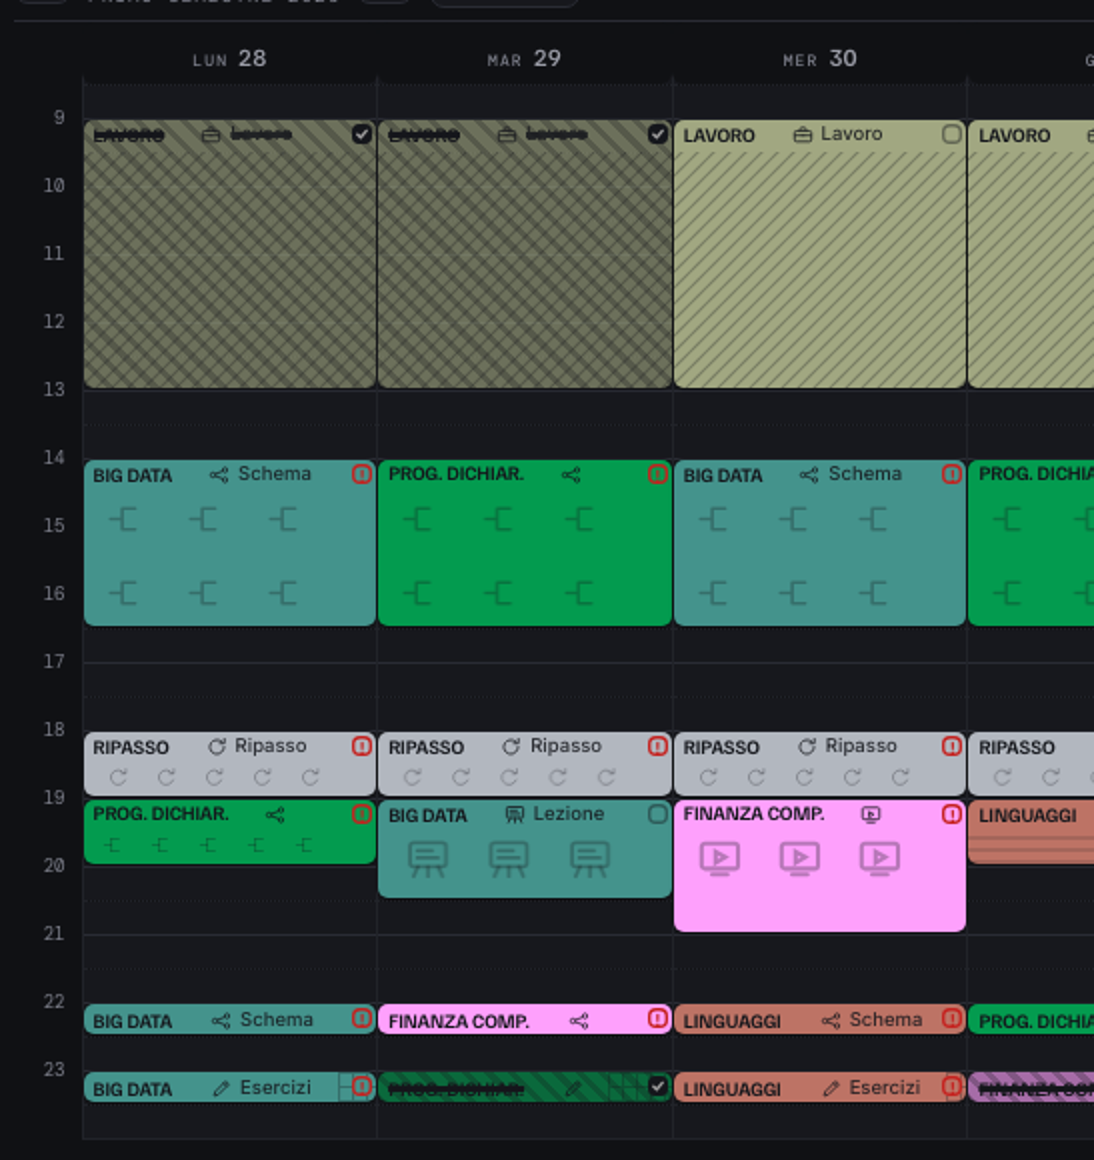
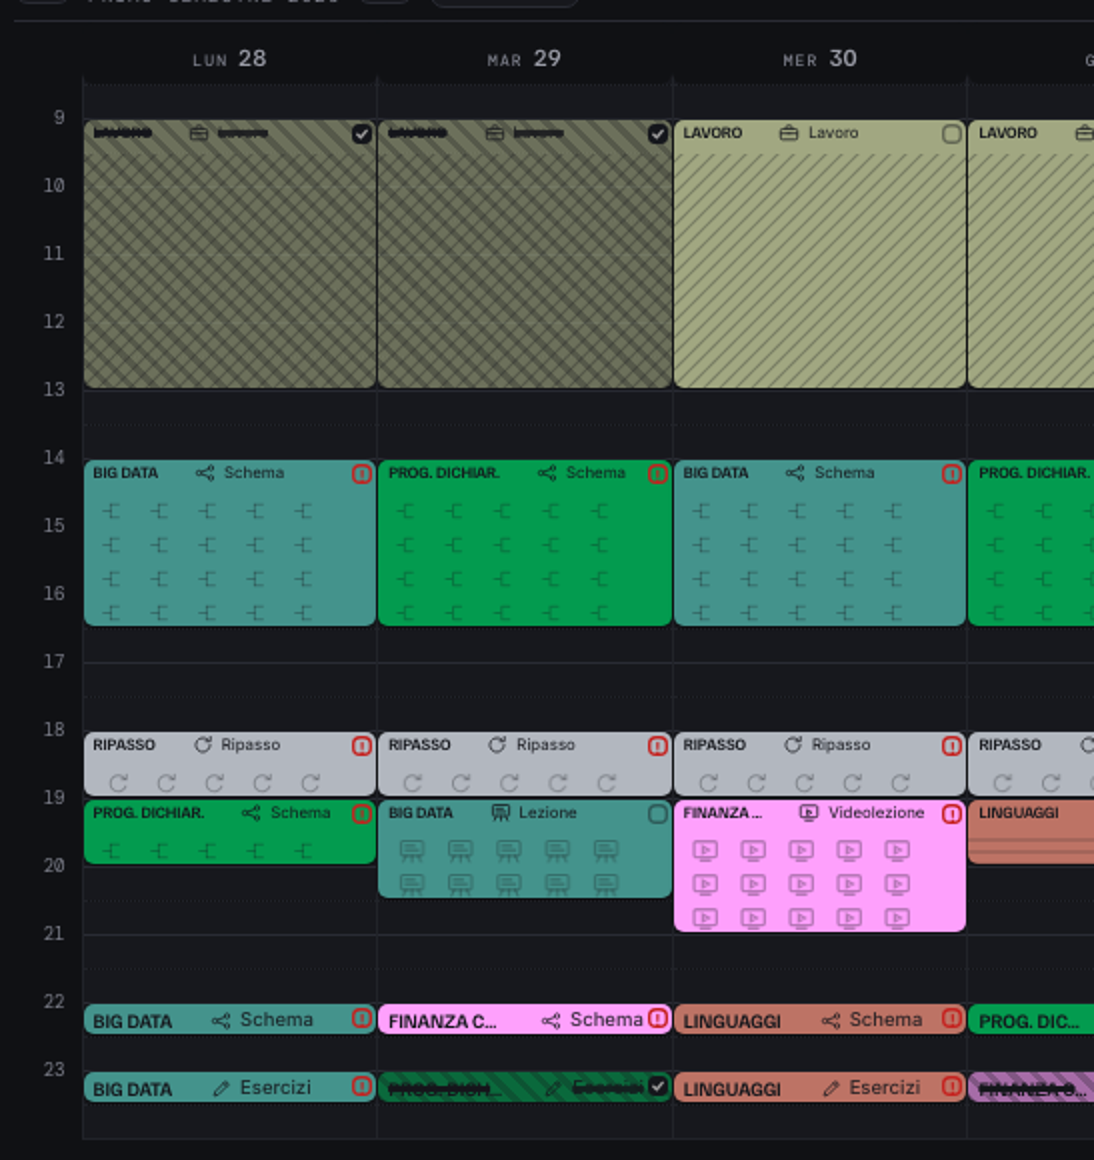
Titolo con nome, icona e attivita' sempre; una fila di figure per mezz'ora
Come chiesto il 4 ottobre: la prima mezz'ora di ogni blocco e' il titolo
— NOME in grassetto, icona dell'attivita', nome dell'attivita' — e ogni
mezz'ora dopo ha una fila di figure, tutte della stessa misura e dello
stesso numero in tutti i blocchi della griglia. La mezz'ora da sola ha
solo il titolo. Se il titolo non ci sta, prima si rimpicciolisce un poco
(uguale per tutta la griglia), poi si accorcia il nome coi puntini:
l'attivita' resta sempre intera.

diff --git a/index.html b/index.html
@@ -573,7 +573,7 @@ tbody tr:last-child td.c{border-bottom:1px solid var(--line-soft)}
    figura dell'angolo spuntava a pezzi intorno al quadratino (3 ottobre: "piccole
    sbavature ad inizio slot in alto a destra"). La stessa misura per tutte le
    file, cosi' restano uguali. */
-.blk em span.tr.tutto{position:absolute;top:0;bottom:3px;left:6px;right:22px;margin:0;flex:none;z-index:-1;min-width:0}
+.blk em span.tr.tutto{position:absolute;top:0;bottom:0;left:6px;right:22px;margin:0;flex:none;z-index:-1;min-width:0}
 .blk em span.tr.tutto.tessuto{left:0;right:0;bottom:0}
 .blk.mini em span.tr.tutto{bottom:0}
 
@@ -595,7 +595,7 @@ tbody tr:last-child td.c{border-bottom:1px solid var(--line-soft)}
 .blk.mini em > b{font-size:calc(var(--tb,12px) * var(--tk,1))}
 html[data-row="tight"] .blk{--tb:11px;--ts:10.5px}
 html[data-row="micro"] .blk{--tb:10px;--ts:9.5px}
-.blk em .l1.l1 s{flex:0 0 auto;min-width:0;max-width:100%;overflow:hidden}
+.blk em .l1.l1 s{flex:0 0 auto;min-width:0;overflow:visible}
 .blk em .l1.l1 s i{white-space:nowrap;overflow:hidden;text-overflow:ellipsis;min-width:0}
 /* Nome e attività sulla stessa riga se ci stanno; se no l'attività va a capo
    da sola, invece di troncarle tutt'e due come faceva la riga forzata. */
@@ -635,7 +635,7 @@ html[data-row="micro"] .blk em u.nota{font-size:10px;line-height:1.15;margin-top
    centoquarantotto pixel gli restavano dieci, cioè niente. Meglio un nome
    troncato e un'attività riconoscibile che il contrario. */
 .blk.mini em b{padding-right:0;flex:0 1 auto;max-width:56%}
-.blk.mini em s{margin-top:0;flex:0 0 auto;min-width:0;overflow:hidden}
+.blk.mini em s{margin-top:0;flex:0 0 auto;min-width:0;overflow:visible}
 .blk.mini em s i{white-space:nowrap;min-width:0}
 .blk.mini em.mini-ok b, .blk.mini em b{flex:0 1 auto;max-width:none;min-width:0}
 
@@ -1874,7 +1874,7 @@ const SWATCHES=["#6E8BFF","#8FA4E8","#5FA8D3","#4A8FBE","#63C2C2","#4EA5A5",
    scritta nel pannello Backup: quando "mi fa ancora lo stesso" la prima
    domanda e' se il browser sta mostrando il file nuovo o uno vecchio in
    memoria — e senza questo nessuno dei due puo' rispondere. */
-const VERSIONE="4 ott 2026 · b";
+const VERSIONE="4 ott 2026 · c";
 const KEY="piano-6272-v5";
 let state={v:8,theme:"dark",piano:"LM18",year:1,ctx:"1",from:0,to:6,span:7,dayStart:0,act:"LEZ",brush:null,erase:false,
            exams:[],over:{},q:"",collapsed:{},dayClip:null,semOpen:false,blockClip:null,
@@ -5320,82 +5320,56 @@ function motivi(root){
      restava niente. Se non ci sta, le scritte si rimpiccioliscono un poco,
      fino a tre quarti; se ancora non basta va via la parola, poi l'icona. Il
      nome della materia resta sempre. */
-  /* Una misura sola per tutti i titoli della griglia, la piu' grande con cui
-     ci stanno quasi tutti: titoli di misure diverse uno accanto all'altro
-     sembravano un errore. */
+  /* Il titolo ha sempre tutti e tre: NOME in grassetto, icona, attivita'
+     (4 ottobre). Una misura sola per tutta la griglia, la piu' grande con
+     cui ci stanno; se a 94% ancora non ci stanno, si accorcia il nome coi
+     puntini — il colore dice gia' la materia — e l'attivita' resta intera. */
   const titoli=[...(root||document).querySelectorAll(".blk em .l1, .blk.mini em")].map(t=>{
     const b=t.querySelector(":scope > b");if(!b)return null;
     const ss=t.querySelector(":scope > s");
-    const stretto=()=>b.scrollWidth>b.clientWidth||
-      (ss&&ss.isConnected&&([...ss.querySelectorAll("i")].some(i=>i.scrollWidth>i.clientWidth)||ss.scrollWidth>ss.clientWidth));
+    const stretto=()=>t.scrollWidth>t.clientWidth+0.5||b.scrollWidth>b.clientWidth||
+      (ss&&[...ss.querySelectorAll("i")].some(i=>i.scrollWidth>i.clientWidth));
     return {t,b,ss,stretto};
   }).filter(Boolean);
-  const scala=[1,.92,.85];
   let K=1;
   titoli.forEach(x=>{
-    for(const k of scala){x.t.style.setProperty("--tk",k);if(!x.stretto()){K=Math.min(K,k);break;}}
+    for(const k of [1,.94]){x.t.style.setProperty("--tk",k);K=Math.min(K,k);if(!x.stretto())break;}
   });
-  titoli.forEach(x=>{
-    x.t.style.setProperty("--tk",K);
-    if(!x.stretto()||!x.ss||x.ss.classList.contains("soloico"))return;
-    const i=x.ss.querySelector("i");if(i)i.remove();
-    if(x.stretto())x.ss.remove();
-  });
+  titoli.forEach(x=>x.t.style.setProperty("--tk",K));
   bl.forEach(o=>{if(o.f){o.f.classList.add("tutto");o.f.style.flex="";o.f.style.marginTop="";o.f.style.top="";o.f.style.left="";o.f.style.backgroundImage="";}});
-  /* 4 ottobre, seconda volta: dietro alle scritte le figure facevano "un
-     casino", e legate all'altezza della mezz'ora su una finestra bassa
-     restavano piccole. Ora le figure hanno una misura loro, grande, uguale in
-     tutta la griglia, e stanno dove le scritte non ci sono: sotto il titolo
-     nei blocchi lunghi, a destra del titolo nelle mezz'ore. Riempiono lo
-     spazio come la trama del lavoro, a file e colonne regolari. */
-  const colW=Math.min(...bl.map(o=>o.f?o.f.getBoundingClientRect().width:999).filter(x=>x>40),999);
-  const FG=figGrande(colW);
+  /* 4 ottobre, terza volta, come l'hai chiesto: la prima mezz'ora di ogni
+     blocco e' il titolo — NOME, icona, attivita' — e ogni mezz'ora dopo ha
+     una fila di figure, tutte uguali: stessa misura, stesso numero, in tutti i
+     blocchi della griglia. La mezz'ora da sola ha solo il titolo. Le figure
+     sono grandi quanto la mezz'ora permette. */
+  let K0=1;
+  bl.forEach(o=>{
+    if(!o.f||o.b.classList.contains("mini"))return;
+    const t0=o.b.getBoundingClientRect().top;
+    K0=Math.max(K0,Math.ceil((fondoTitolo(o.f.parentNode,t0)-2)/ROW));
+  });
   bl.forEach(o=>{
     const r=o.b.getBoundingClientRect(),w=r.width,h=r.height;
     const [tw,th,figura]=o.d,a=o.b.dataset.att;
     if(!(w>3&&h>3)){ripiego(o);return;}
-    if(!o.f){o.b.style.setProperty("--tr","none");return;}      /* mezz'ora con la nota */
-    const fr=o.f.getBoundingClientRect();
-    const mini=o.b.classList.contains("mini");
+    if(!o.f){o.b.style.setProperty("--tr","none");return;}
+    if(o.b.classList.contains("mini")){
+      o.f.style.backgroundImage="none";o.b.style.setProperty("--trr","no-repeat");return;}
     o.f.classList.toggle("tessuto",!figura);
-    if(mini){
-      /* a destra delle scritte, alte quanto la striscia lascia */
-      const em=o.f.parentNode;let fine=fr.left;
-      em.querySelectorAll(":scope > b, :scope > s").forEach(e=>{const q=e.getBoundingClientRect();if(q.width)fine=Math.max(fine,q.right);});
-      const x0=Math.ceil(fine-fr.left+6);
-      o.f.style.left=(x0+6)+"px";o.f.style.top="0px";
-      const lib=fr.width-x0;
-      if(!figura){
-        if(lib<12){o.f.style.backgroundImage="none";return;}
-        o.b.style.setProperty("--trs",tw+"px "+th+"px");
-        o.b.style.setProperty("--trr","repeat");o.b.style.setProperty("--trp","0 0");return;
-      }
-      const F=Math.min(FG,Math.floor(h)-3),FW=F*tw/th,cw=Math.ceil(FW*1.35);
-      if(F<9||lib<FW+2){o.f.style.backgroundImage="none";o.b.style.setProperty("--trr","no-repeat");return;}
-      o.b.dataset.fig=F;
-      o.b.style.setProperty("--tr",cella(a,cw,Math.floor(h),F));
-      o.b.style.setProperty("--trs",cw+"px "+Math.floor(h)+"px");
-      o.b.style.setProperty("--trr",lib>=cw*2?"space no-repeat":"no-repeat");
-      o.b.style.setProperty("--trp","0 50%");
-      return;
-    }
-    /* sotto il titolo */
-    const top0=r.top,y0=Math.ceil(fondoTitolo(o.f.parentNode,top0)+3);
-    o.f.style.left="";o.f.style.top=y0+"px";
-    const hb=h-y0-3;                 /* la fascia si ferma tre pixel sopra il fondo */
+    o.f.style.left="";o.f.style.top=(K0*ROW)+"px";
+    const fr=o.f.getBoundingClientRect(),hb=fr.height;
+    if(hb<ROW-4){o.f.style.backgroundImage="none";o.b.style.setProperty("--trr","no-repeat");return;}
     if(!figura){
-      if(hb<4){o.f.style.backgroundImage="none";return;}
       o.b.style.setProperty("--trs",tw+"px "+th+"px");
       o.b.style.setProperty("--trr","repeat");o.b.style.setProperty("--trp","0 0");return;
     }
-    /* sotto il titolo di un blocco da un'ora resta poco: li' una fila sola,
-       un po' piu' piccola, ma mai sotto i nove pixel */
-    const F=hb>=FG+1?FG:Math.floor(hb-1),FW=F*tw/th,CW=Math.round(cellaG(FG)*F/FG),CH=hb>=FG+1?F+6:Math.floor(hb);
-    if(F<9||fr.width<FW+2){o.f.style.backgroundImage="none";o.b.style.setProperty("--trr","no-repeat");return;}
+    const {F,FW}=figMisura(o.d);
+    if(fr.width<FW+2){ripiego(o);return;}
+    const CW=Math.min(Math.floor(fr.width),cellaW());
     o.b.dataset.fig=F;
-    o.b.style.setProperty("--tr",cella(a,Math.min(CW,Math.floor(fr.width)),CH,F));
-    o.b.style.setProperty("--trs",Math.min(CW,Math.floor(fr.width))+"px "+CH+"px");
-    o.b.style.setProperty("--trr",hb>=CH*2?"space space":"space no-repeat");
+    o.b.style.setProperty("--tr",cella(a,CW,ROW));
+    o.b.style.setProperty("--trs",CW+"px "+ROW+"px");
+    o.b.style.setProperty("--trr","space repeat");
     o.b.style.setProperty("--trp","0 0");
   });
 }
@@ -5430,7 +5404,7 @@ function fondoTitolo(em,top0){
 function figMisura(d){
   /* e mai piu' alta della mezz'ora meno quattro pixel: la striscia da
      mezz'ora e' alta la mezz'ora meno due, e la figura ci deve stare intera */
-  const F=Math.max(9,Math.min(26,ROW-3));
+  const F=Math.max(9,Math.min(26,ROW-4));
   return {F:F,FW:F*d[0]/d[1]};
 }
 /* La casella e' la stessa per tutte le attivita': larga poco piu' della

diff --git a/test/suite.js b/test/suite.js
@@ -1576,8 +1576,9 @@
     var lunghe=Object.keys(file);
     for(var i=0;i<lunghe.length;i++)if(Object.keys(file[lunghe[i]]).length!==1)guai.push(lunghe[i]+" mezz'ore: "+Object.keys(file[lunghe[i]]).join(" o ")+" file");
     if(guai.length)return guai.join(" · ");
-    /* piu' mezz'ore, piu' file */
-    return (file[8]&&file[3]&&+Object.keys(file[8])[0]>+Object.keys(file[3])[0])?true:
+    /* una fila per ogni mezz'ora dopo quella del titolo: cinque mezz'ore in
+       piu', cinque file in piu' */
+    return (file[8]&&file[3]&&+Object.keys(file[8])[0]-+Object.keys(file[3])[0]===5)?true:
       "le file non sono una per mezz'ora: "+JSON.stringify(file);});
   /* 3 ottobre: "se salto la pausa deve essere considerata come tempo fatto" */
   t("saltare la pausa conta la pausa intera, nel registro e nelle mezz'ore",function(){
@@ -1597,6 +1598,22 @@
       if(dopo-prima!==15)return "la pausa saltata ha messo a registro "+(dopo-prima)+" minuti (attesi 15)";
       return q==="■■□□"?true:"dopo 45 + 15 minuti il blocco e' "+q+" (atteso ■■□□)";
     });});
+  /* 4 ottobre: "NOME IN GRASSETTO + motivo (l'icona) + nome attivita'", in
+     ogni blocco, anche da una mezz'ora */
+  t("ogni titolo ha nome, icona e attivita'",function(){
+    pulisci();apri();
+    var lungo=items().filter(function(x){return /dichiar/i.test(x.name||"");})[0]||it[2];
+    state.span=7;state.from=0;state.to=6;applySpan();
+    var G7=[];document.querySelectorAll("td.c").forEach(function(x){if(G7.indexOf(x.dataset.date)<0)G7.push(x.dataset.date);});
+    G7.slice(0,5).forEach(function(d,k){
+      placeRun(d,HOURS[2],{i:lungo.id,a:"VID",len:1+k%3},0);
+      placeRun(d,HOURS[10],{i:it[0].id,a:"SCH",len:1},0);});
+    render();
+    var male=[].filter.call(document.querySelectorAll(".blk[data-att]"),function(b){
+      var nb=b.querySelector("em b"),ic=b.querySelector("em s .ico"),pa=b.querySelector("em s i");
+      return !(nb&&ic&&pa&&pa.textContent.trim()&&pa.scrollWidth<=pa.clientWidth);});
+    return male.length?male.length+" titoli senza nome, icona o attivita' intera: "+
+      [].map.call(male,function(b){return b.textContent.trim();}).slice(0,3).join(" | "):true;});
   t("il lavoro e la NASPI non contano nei grafici",function(){
     pulisci();apri();
     var ieri=iso(addDays(new Date(),-1));
@@ -1847,13 +1864,11 @@
     var b=l1.querySelector("b");
     var bl=l1.closest(".blk").getBoundingClientRect(),r=l1.getBoundingClientRect();
     if(r.bottom>bl.bottom+1)return "la prima riga esce dal blocco: "+Math.round(r.bottom-bl.bottom)+" px";
-    /* il nome della materia viene prima: intero, mai coi puntini per far
-       posto all'attivita' */
-    var nb=l1.querySelector("b");
-    /* troncato si', ma solo se da solo non ci sta: mai per far posto
-       all'attivita' */
-    var tronco=nb.scrollWidth>nb.clientWidth+1,conParola=!!l1.querySelector("s i");
-    return (tronco&&conParola)?"il nome della materia e' troncato per far posto all'attivita'":true;});
+    /* dal 4 ottobre il titolo ha sempre nome, icona e attivita' intera: se
+       non ci stanno si accorcia il nome coi puntini, mai l'attivita' */
+    var pa=l1.querySelector("s i"),ic=l1.querySelector("s .ico");
+    if(!ic||!pa)return "nel titolo mancano l'icona o l'attivita'";
+    return pa.scrollWidth<=pa.clientWidth?true:"l'attivita' e' troncata";});
 
   /* La data d'esame si mette dalla riga della materia, che e' dove uno la
      cerca appena aggiunta una materia. Prima stava dentro un pannello in
